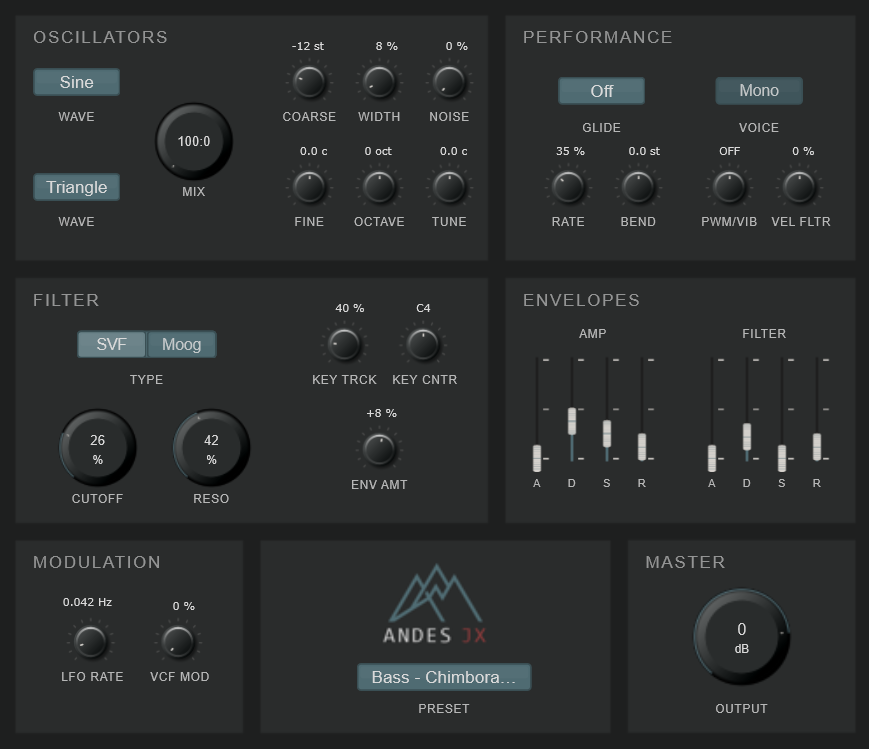
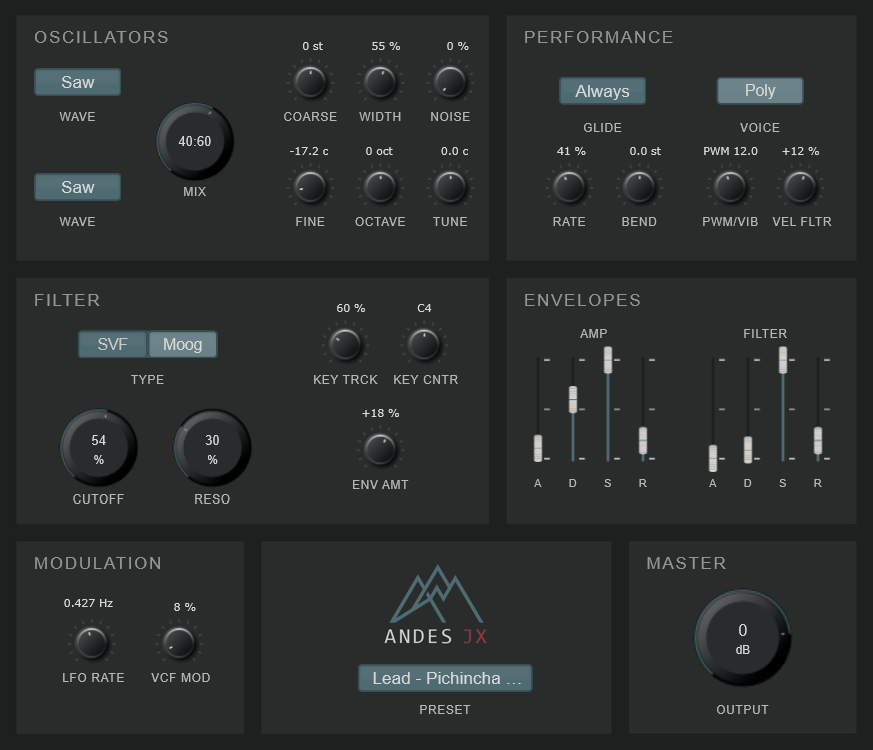
UI: refine PluginEditor layout and update project screenshot

diff --git a/Source/PluginEditor.cpp b/Source/PluginEditor.cpp
@@ -284,20 +284,24 @@ void AndesJXAudioProcessorEditor::initialiseBackground()
 
     if (backgroundAndesJX.isValid())
     {
-        // EN: The source PNG is exported at 4x for retina-quality
-        //     downsampling. juce::Graphics::highResamplingQuality uses
-        //     a higher-order filter (better than nearest/bilinear) so
-        //     edges stay clean.
-        // ES: El PNG original se exporta a 4x para hacer downsampling
-        //     calidad retina. juce::Graphics::highResamplingQuality usa
-        //     un filtro de orden alto (mejor que nearest/bilinear) para
-        //     que los bordes queden limpios.
-        backgroundAndesJX = backgroundAndesJX.rescaled(
-            backgroundAndesJX.getWidth() / 4,
-            backgroundAndesJX.getHeight() / 4,
-            juce::Graphics::highResamplingQuality);
-
-        setSize(backgroundAndesJX.getWidth(), backgroundAndesJX.getHeight());
+        // EN: The source PNG is exported at 4x its logical display size
+        //     to give JUCE extra resolution to draw from on HiDPI/Retina
+        //     displays. The image is NOT rescaled in memory: keeping the
+        //     full 4x pixel data lets paint() pick the right level of
+        //     detail at the actual display density (1x, 1.5x, 2x...).
+        //     The editor's logical size is set to width/4 and height/4
+        //     so the GUI lays out as if the artwork were 1x; JUCE handles
+        //     the pixel-mapping internally.
+        // ES: El PNG original se exporta a 4x su tamaño lógico de display
+        //     para dar a JUCE resolución extra desde la cual dibujar en
+        //     pantallas HiDPI/Retina. La imagen NO se reescala en memoria:
+        //     mantener los píxeles 4x permite que paint() elija el nivel
+        //     de detalle adecuado en la densidad real del display
+        //     (1x, 1.5x, 2x...). El tamaño lógico del editor se asigna a
+        //     width/4 y height/4 para que la GUI se disponga como si el
+        //     arte fuera 1x; JUCE maneja el mapeo de píxeles internamente.
+        setSize(backgroundAndesJX.getWidth() / 4,
+                backgroundAndesJX.getHeight() / 4);
     }
     else
     {
@@ -1868,6 +1872,18 @@ void AndesJXAudioProcessorEditor::paint(juce::Graphics& g)
 
     if (backgroundAndesJX.isValid())
     {
+        // EN: Use high-quality resampling when scaling the background
+        //     image down from its 4x source to the editor's logical
+        //     size. On HiDPI displays the system multiplies that logical
+        //     size again, and JUCE uses the source's full resolution
+        //     instead of upscaling pre-downscaled pixels.
+        // ES: Usar resampling de alta calidad al escalar la imagen de
+        //     fondo desde su fuente 4x al tamaño lógico del editor. En
+        //     pantallas HiDPI el sistema multiplica ese tamaño lógico de
+        //     nuevo, y JUCE usa la resolución completa de la fuente en
+        //     lugar de upscalar píxeles ya pre-reducidos.
+        g.setImageResamplingQuality(juce::Graphics::highResamplingQuality);
+
         g.drawImageWithin(
             backgroundAndesJX,
             0, 0,